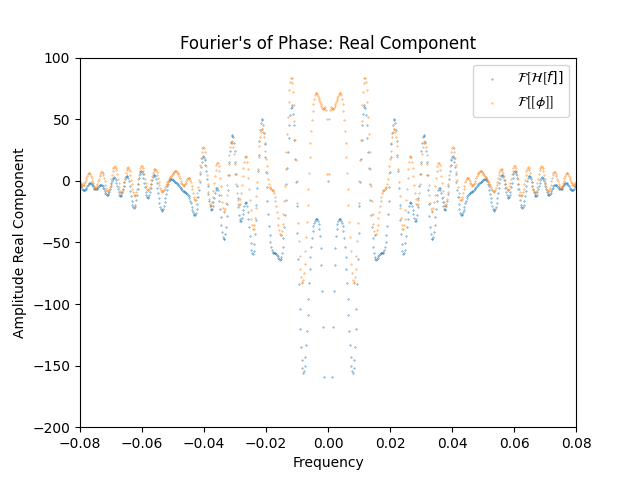
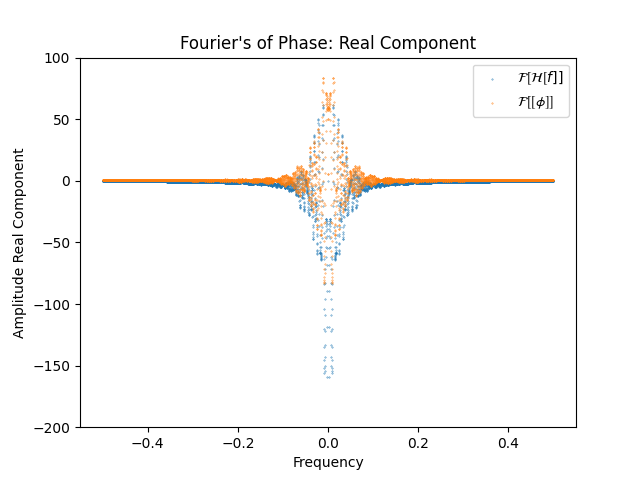
PaddingStuff

diff --git a/Experiments/Experiment6.py b/Experiments/Experiment6.py
@@ -16,12 +16,15 @@ fftH = np.fft.fft(phaseH)
 fftP = np.fft.fft(phase)
 freqs = np.fft.fftfreq(len(phase))
 
+
+np.savetxt("fourierTransform.csv", np.column_stack((freqs, np.real(fftH), np.real(fftP))), delimiter=',')
+
 plt.scatter(freqs, np.real(fftH), s= 0.1, label = "$\\mathcal{F[H[}f]]$")
 plt.scatter(freqs, np.real(fftP), s= 0.1, label = "$\\mathcal{F[[\\phi]]}$")
 plt.legend()
 plt.title("Fourier's of Phase: Real Component")
 plt.xlabel("Frequency")
-plt.xlim([-0.08,0.08])
+#plt.xlim([-0.08,0.08])
 plt.ylim([-200,100])
 plt.ylabel("Amplitude Real Component")
 plt.savefig("../Plots/FourierRealPhase")

diff --git a/Experiments/Experiment9.py b/Experiments/Experiment9.py
@@ -17,6 +17,9 @@ Elin, Sint  = HelperFunctions.interpolate_list(energy, Sint, int(1e6))
 
 padRight = 500000
 padLeft = 5000
+plt.plot(Elin,Sint,label = "Original", zorder = 3)
+
+
 Sint = np.pad(Sint, (0,padRight), 'reflect', reflect_type='odd')
 Sint = np.pad(Sint, (padLeft,0), 'reflect', reflect_type='odd')
 
@@ -26,7 +29,8 @@ C = 1
 SintA = Sint + C
 Slog = np.log(SintA)
 
-plt.plot(Elin,Sint)
+plt.plot(Elin,Sint,label = "Extended", zorder = 0)
+HelperFunctions.graph_setup_EA(xlim=False)
 plt.savefig("../Plots/PaddingExtensionOfCrossSection")
 plt.show()
 
